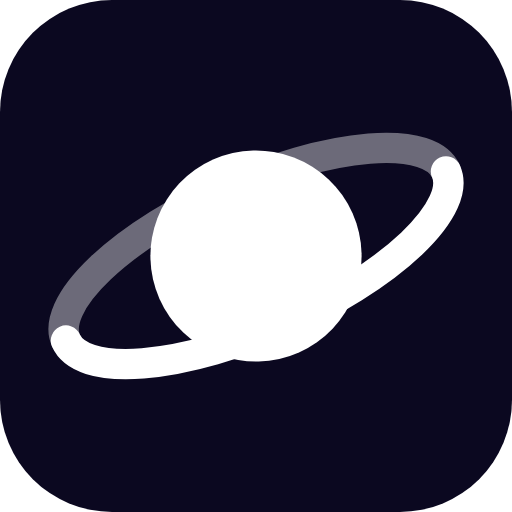
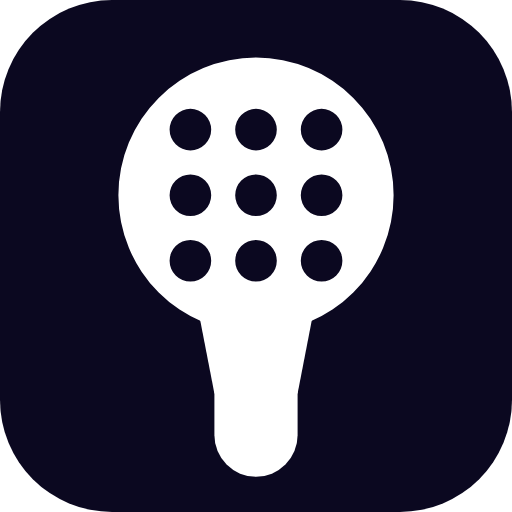
feat(brand): make the mark a padel racket
"A little racket and that's it." Lucide has nothing racket-shaped and
no other icon set is installed, so it's drawn here: a filled silhouette
with a round head, a throat, a 3×3 grid of punched holes and a short
handle with a rounded butt. Filled on purpose — an outlined ring with a
stick is the magnifying-glass glyph, which is what the first cut looked
like. The holes are subpaths wound the other way so the nonzero rule
cuts them out and the mark stays a plain currentColor shape.

Favicon and home-screen icons re-rendered from the same geometry. The
login backdrop keeps the planet: the racket says padel, the orbit says
galaxy.

Changed region(s): [[0.0938, 0.0938, 0.9062, 0.9375]]

diff --git a/src/components/brand-logo.tsx b/src/components/brand-logo.tsx
@@ -19,15 +19,17 @@ export function BrandLogo({ className, showWordmark = true }: Props) {
 }
 
 /**
- * The mark: a ball with a single orbit. Inline SVG in `currentColor` so it
- * takes the surrounding text color — dark on the light landing, light in
- * the dark shell — with no badge and no theme swap. The favicon and the
- * home-screen icons carry the same geometry on a solid badge, where the
- * background can't be trusted (see public/favicon.svg).
+ * The mark: a padel racket, as a filled silhouette — round head with a
+ * throat, a 3×3 grid of punched holes, a short handle with a rounded butt.
+ * Inline SVG in `currentColor` so it takes the surrounding text color,
+ * with no badge and no theme swap. The favicon and the home-screen icons
+ * carry the same geometry on a solid badge (see public/favicon.svg).
  *
- * The orbit passes behind the ball on top (faint) and in front below
- * (full); that one depth cue is what keeps it from reading as a flat glyph
- * at 24 px.
+ * Filled rather than outlined on purpose: an outlined ring with a stick is
+ * the magnifying-glass glyph. The holes are subpaths wound the other way
+ * so the nonzero fill rule cuts them out, keeping the whole thing a plain
+ * `currentColor` shape with no background color baked in. At 24 px the
+ * holes merge into a mesh, which still says "padel" rather than "tennis".
  */
 export function LogoMark({ className }: { className?: string }) {
   return (
@@ -35,18 +37,11 @@ export function LogoMark({ className }: { className?: string }) {
       viewBox="0 0 32 32"
       aria-hidden="true"
       className={cn("shrink-0 select-none", className)}
+      fill="currentColor"
     >
-      <g
-        transform="translate(16 16) rotate(-24)"
-        fill="none"
-        stroke="currentColor"
-        strokeWidth="2"
-        strokeLinecap="round"
-      >
-        <path d="M-13 0A13 4.6 0 0 1 13 0" opacity="0.4" />
-        <circle r="6.6" fill="currentColor" stroke="none" />
-        <path d="M-13 0A13 4.6 0 0 0 13 0" />
-      </g>
+      <path d="M7.4 12.2a8.6 8.6 0 1 1 17.2 0a8.6 8.6 0 1 1 -17.2 0ZM10.6 8.1a1.3 1.3 0 1 0 2.6 0a1.3 1.3 0 1 0 -2.6 0ZM14.7 8.1a1.3 1.3 0 1 0 2.6 0a1.3 1.3 0 1 0 -2.6 0ZM18.8 8.1a1.3 1.3 0 1 0 2.6 0a1.3 1.3 0 1 0 -2.6 0ZM10.6 12.2a1.3 1.3 0 1 0 2.6 0a1.3 1.3 0 1 0 -2.6 0ZM14.7 12.2a1.3 1.3 0 1 0 2.6 0a1.3 1.3 0 1 0 -2.6 0ZM18.8 12.2a1.3 1.3 0 1 0 2.6 0a1.3 1.3 0 1 0 -2.6 0ZM10.6 16.3a1.3 1.3 0 1 0 2.6 0a1.3 1.3 0 1 0 -2.6 0ZM14.7 16.3a1.3 1.3 0 1 0 2.6 0a1.3 1.3 0 1 0 -2.6 0ZM18.8 16.3a1.3 1.3 0 1 0 2.6 0a1.3 1.3 0 1 0 -2.6 0Z" />
+      <path d="M12.2 18.4L13.4 24.6H18.6L19.8 18.4Z" />
+      <rect x="13.4" y="21.6" width="5.2" height="8.2" rx="2.6" />
     </svg>
   )
 }
